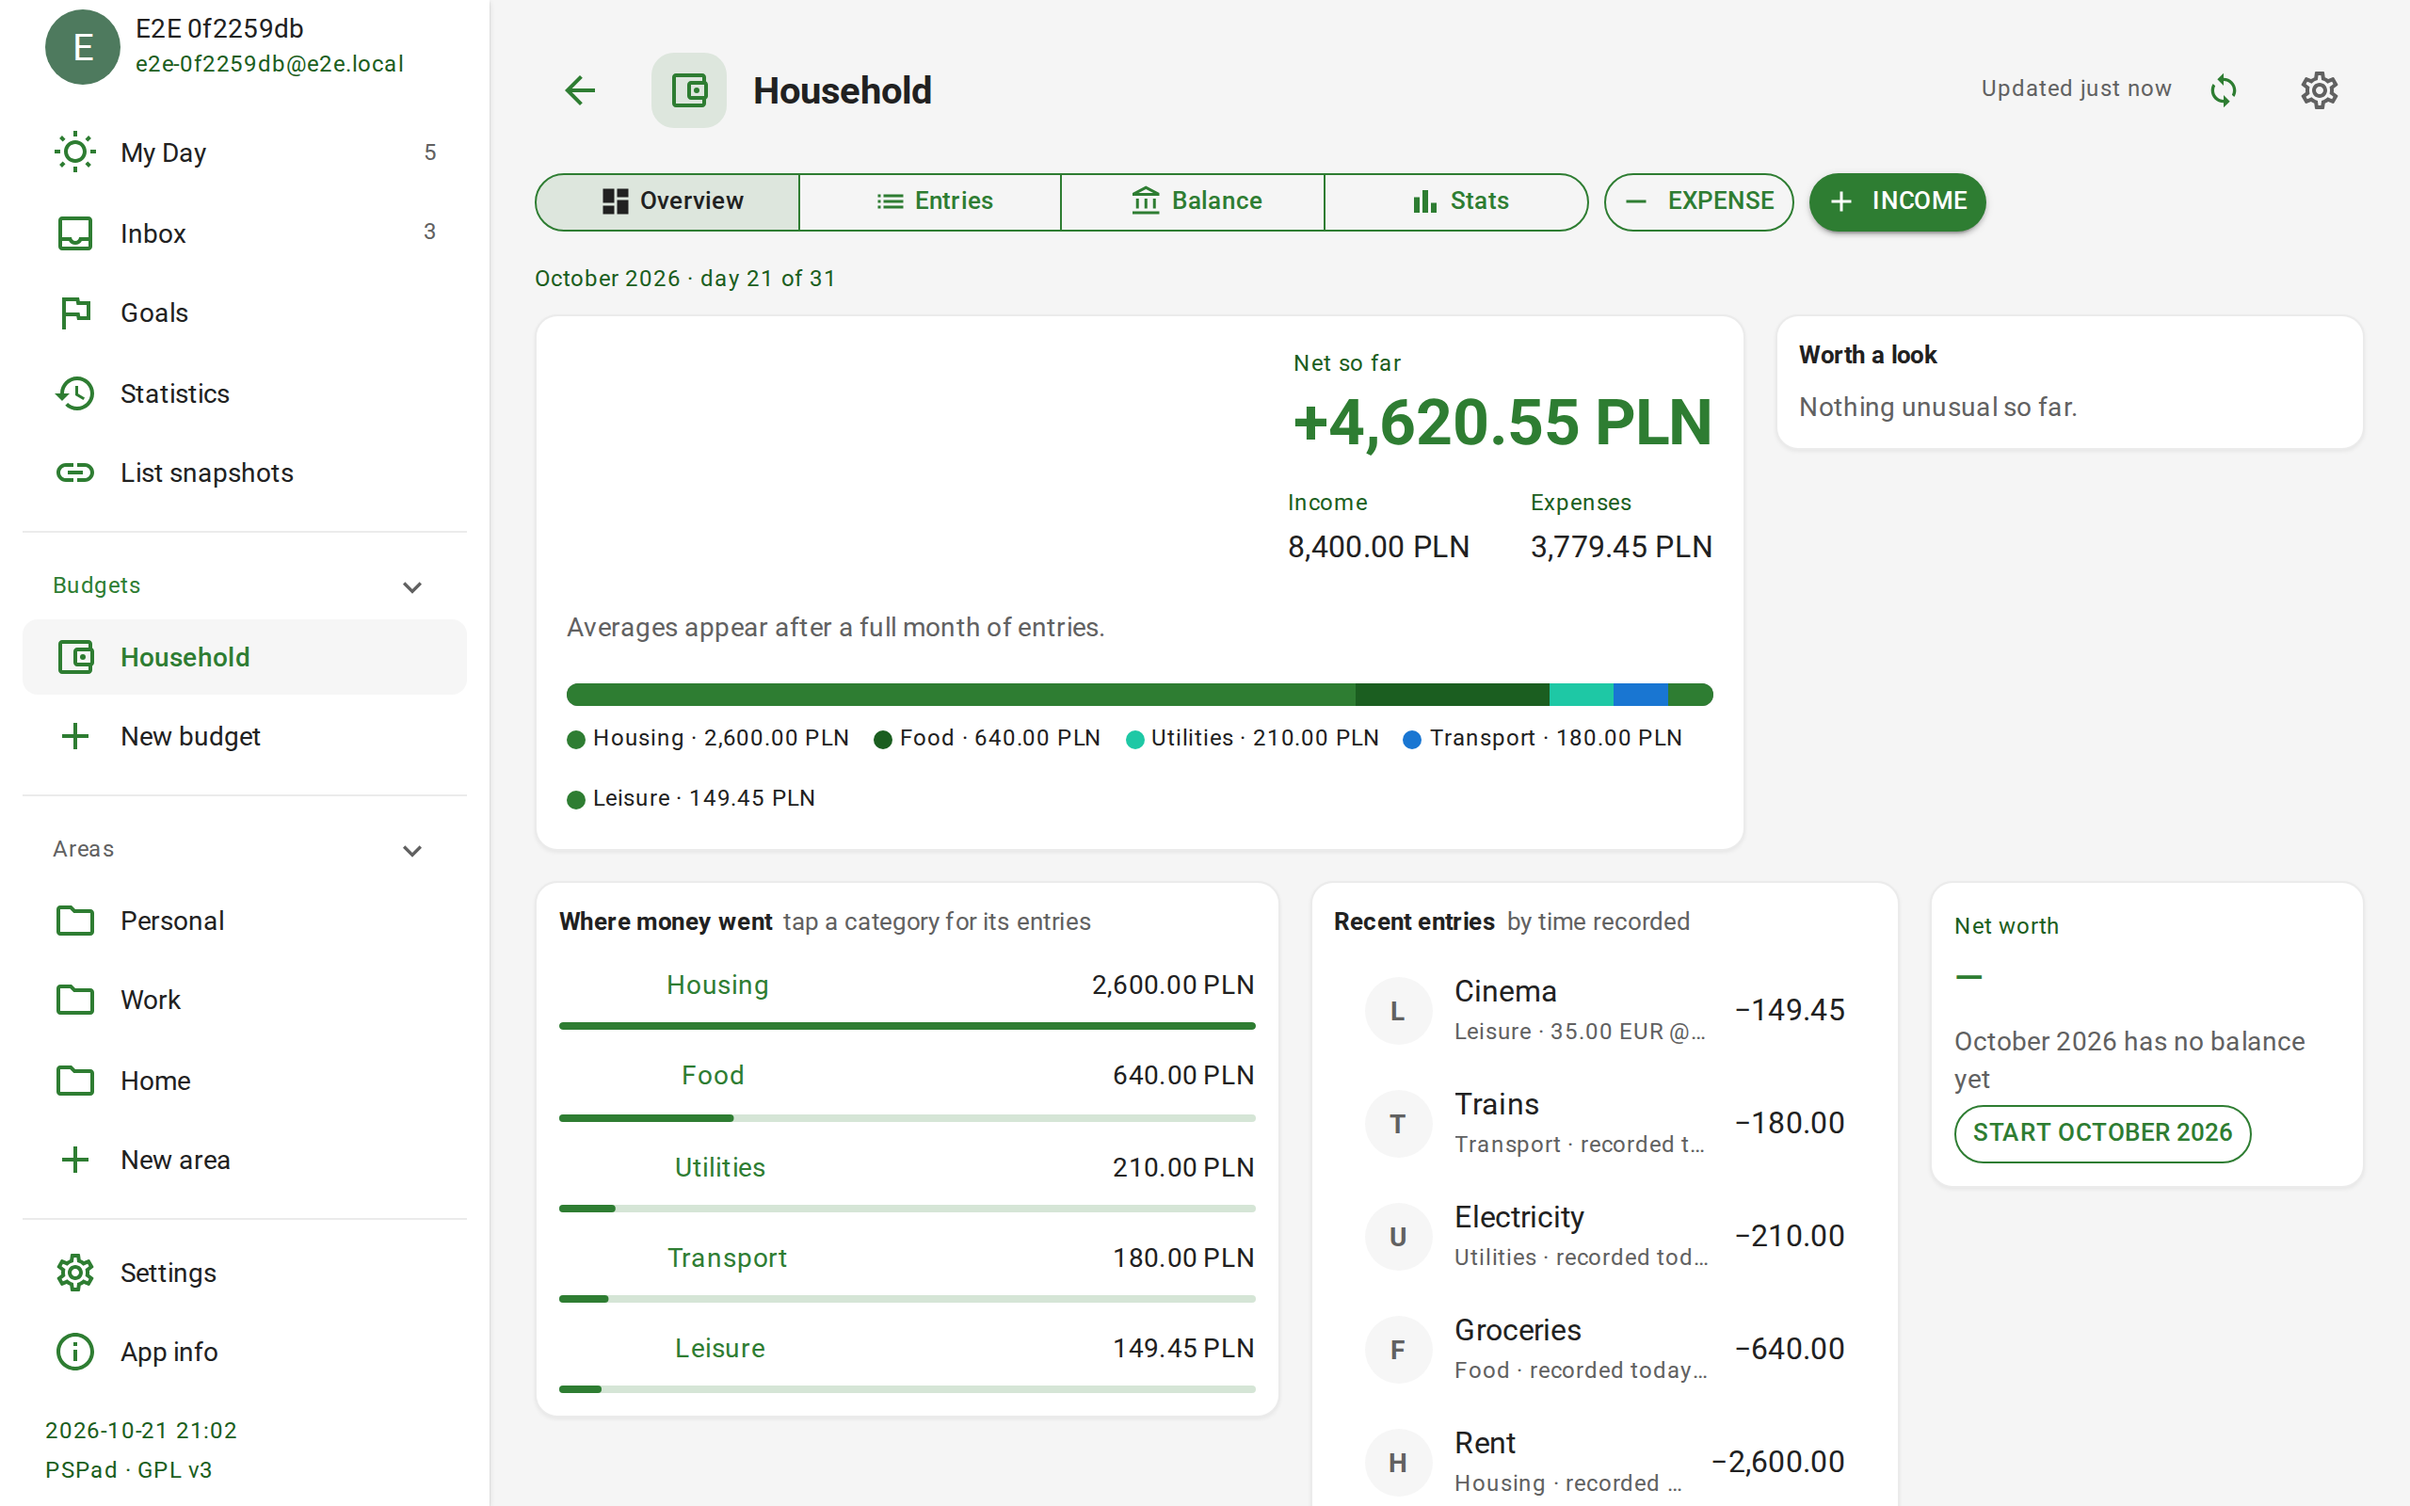
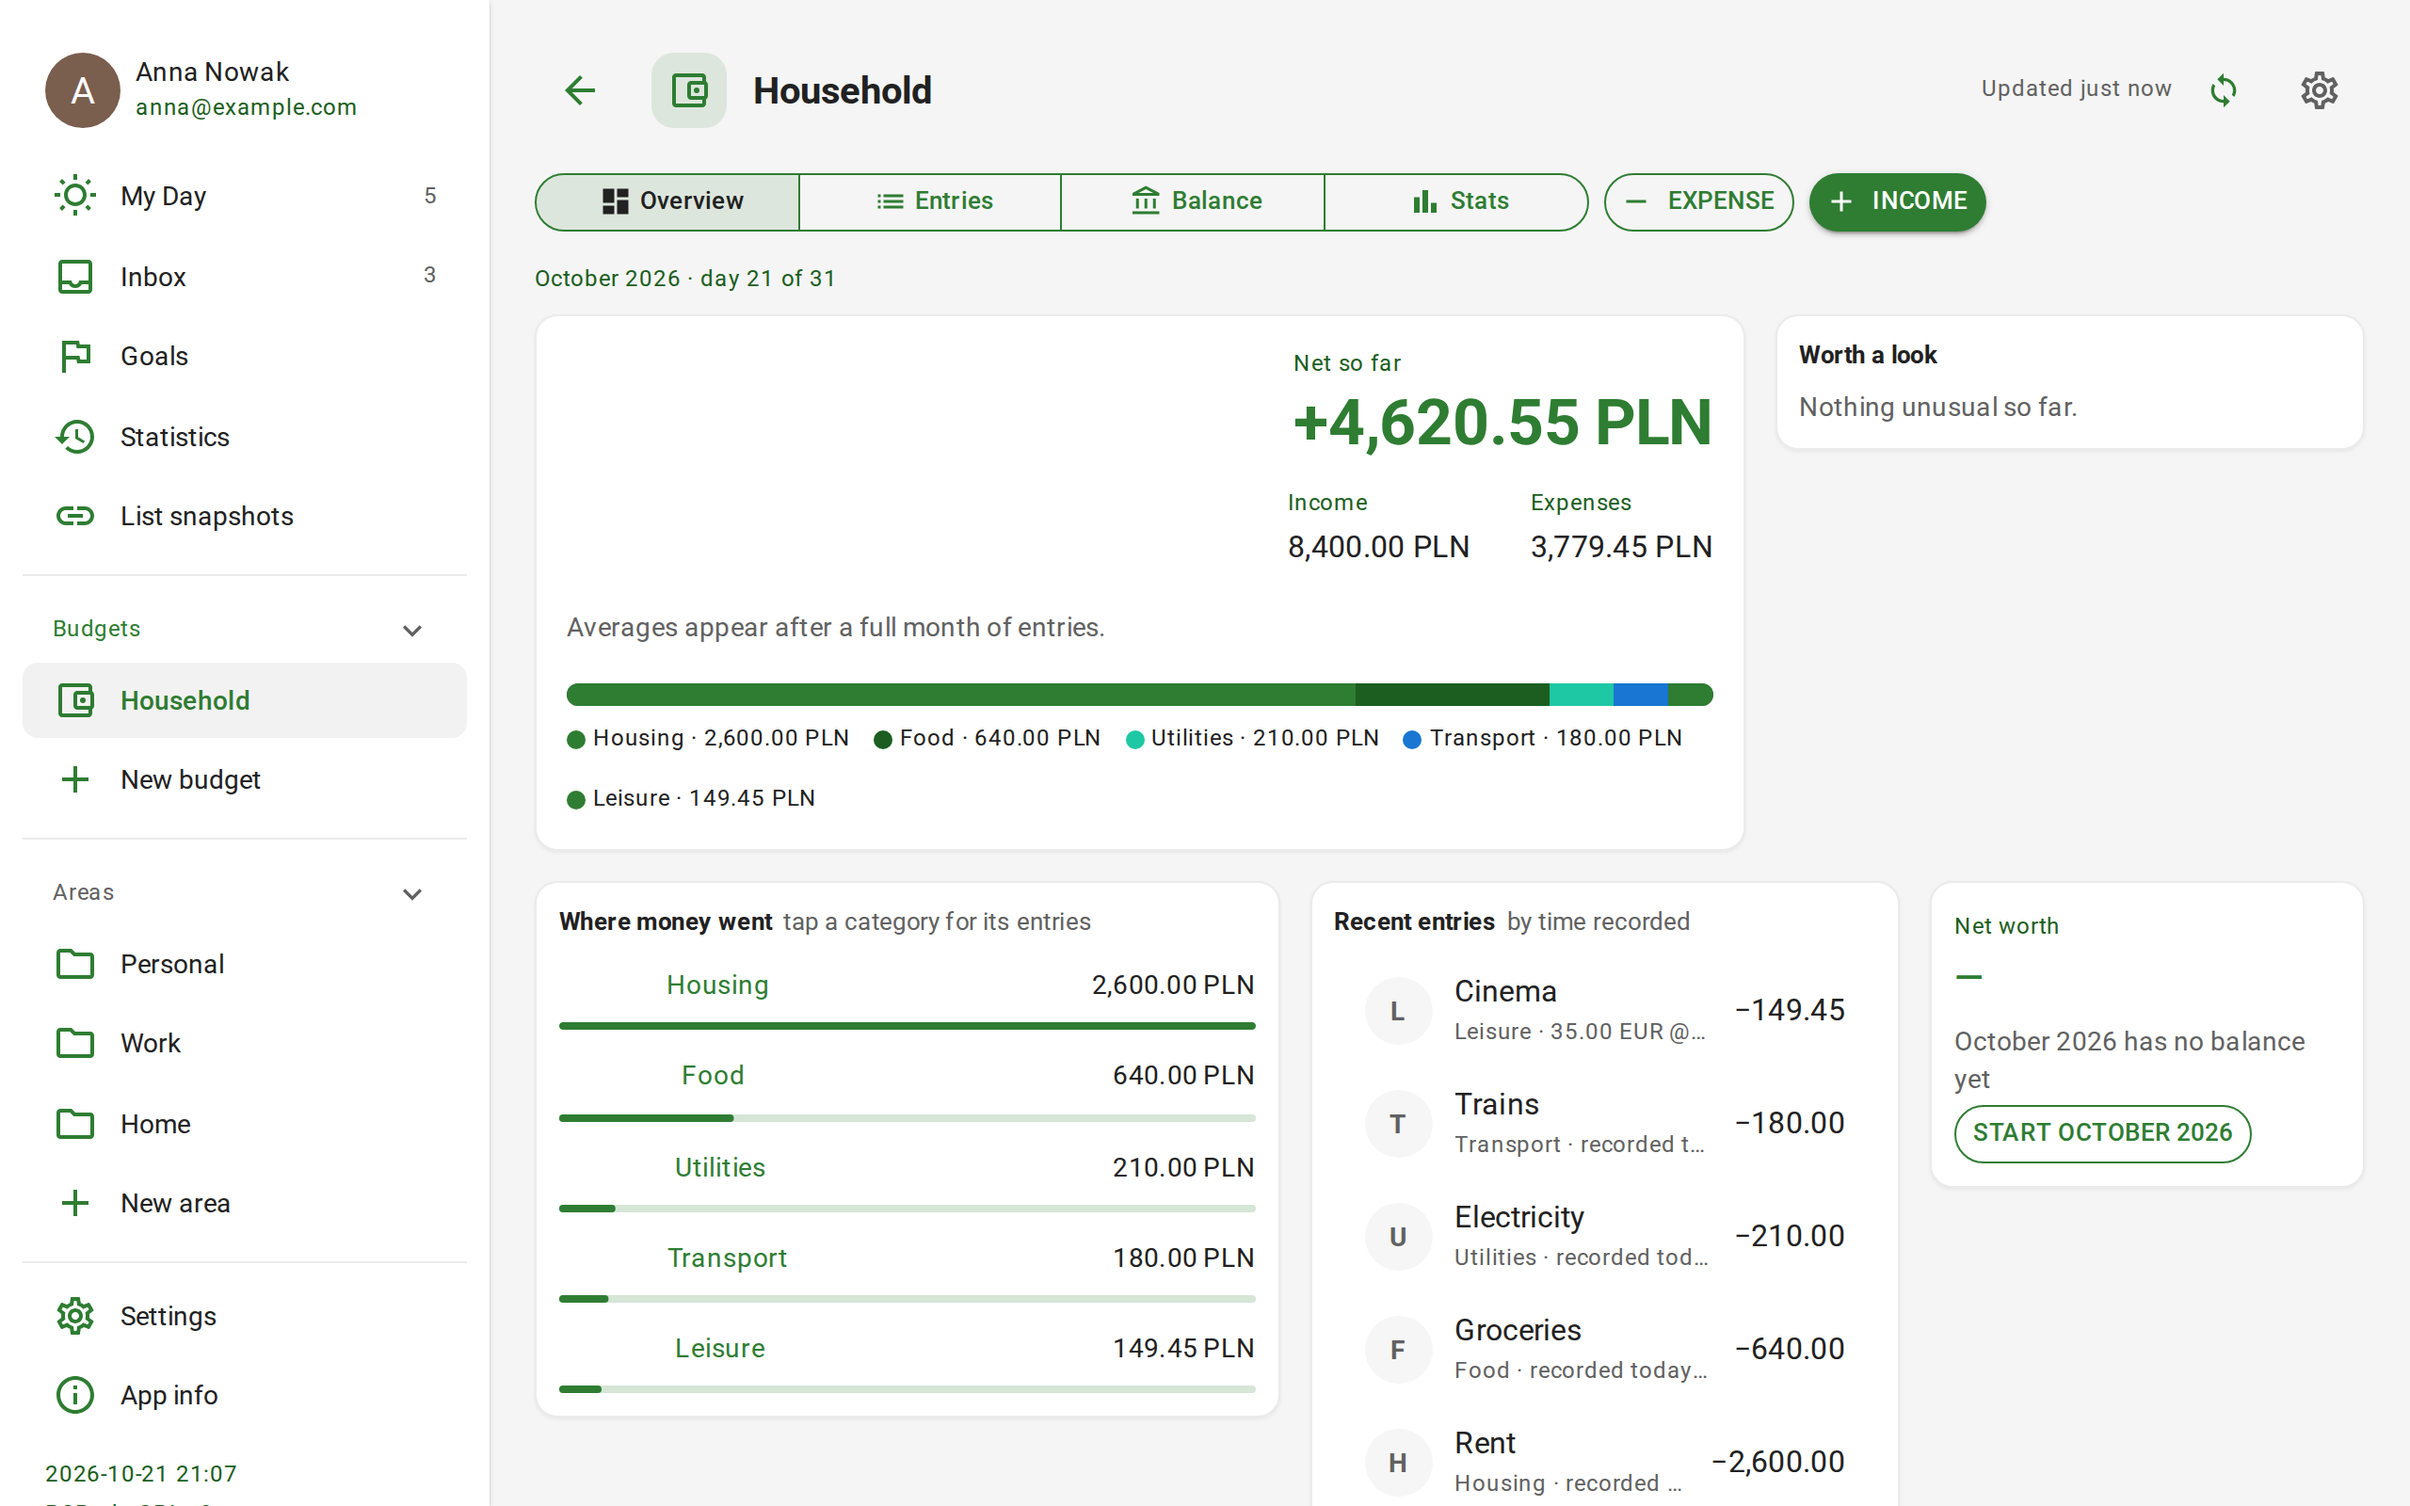
fix(e2e): screenshot account has a presentable name and email (#110)
Claude-Session: https://claude.ai/code/session_01JuNDjC2thPD8ko1UT1YSuQ

diff --git a/test/e2e/screenshots.spec.ts b/test/e2e/screenshots.spec.ts
@@ -1,8 +1,8 @@
-import { expect, Page } from '@playwright/test';
+import { expect, Page, test } from '@playwright/test';
 import { mkdirSync } from 'node:fs';
 import path from 'node:path';
 import { fileURLToPath } from 'node:url';
-import { test } from './fixtures/accounts';
+import { createAccount, deleteAccount } from './fixtures/keycloak';
 import { openArea } from './helpers/areas';
 import { addEntry, createBudget } from './helpers/budgets';
 import { addDays, utcToday } from './helpers/dates';
@@ -105,30 +105,35 @@ async function seed(page: Page) {
 
 test.describe.configure({ timeout: 600_000 });
 
-test('capture the screenshots the docs site shows', async ({ page, account }) => {
-  mkdirSync(out, { recursive: true });
-  await page.setViewportSize(desktop);
-  await signIn(page, account);
-  await seed(page);
-
-  for (const theme of ['Light', 'Dark'] as const) {
-    const name = theme.toLowerCase() as 'light' | 'dark';
-    await setTheme(page, theme);
-
-    await goToMyDay(page);
-    await shot(page, 'my-day', name, desktop);
-    await shot(page, 'my-day', name, phone);
-
-    await goToInbox(page);
-    await shot(page, 'inbox', name, phone);
-
+test('capture the screenshots the docs site shows', async ({ page }) => {
+  const account = await createAccount({ firstName: 'Anna', lastName: 'Nowak', email: 'anna@example.com' });
+  try {
+    mkdirSync(out, { recursive: true });
     await page.setViewportSize(desktop);
-    await openArea(page, 'Work');
-    await shot(page, 'area', name, desktop);
+    await signIn(page, account);
+    await seed(page);
 
-    await goTo(page, 'Budgets');
-    await page.getByRole('link', { name: 'Household' }).first().click();
-    await expect(page.getByRole('heading', { name: 'Household', exact: true })).toBeVisible();
-    await shot(page, 'budget', name, desktop);
+    for (const theme of ['Light', 'Dark'] as const) {
+      const name = theme.toLowerCase() as 'light' | 'dark';
+      await setTheme(page, theme);
+
+      await goToMyDay(page);
+      await shot(page, 'my-day', name, desktop);
+      await shot(page, 'my-day', name, phone);
+
+      await goToInbox(page);
+      await shot(page, 'inbox', name, phone);
+
+      await page.setViewportSize(desktop);
+      await openArea(page, 'Work');
+      await shot(page, 'area', name, desktop);
+
+      await goTo(page, 'Budgets');
+      await page.getByRole('link', { name: 'Household' }).first().click();
+      await expect(page.getByRole('heading', { name: 'Household', exact: true })).toBeVisible();
+      await shot(page, 'budget', name, desktop);
+    }
+  } finally {
+    await deleteAccount(account);
   }
 });

diff --git a/test/e2e/fixtures/keycloak.ts b/test/e2e/fixtures/keycloak.ts
@@ -29,10 +29,14 @@ async function adminToken(): Promise<string> {
   return ((await response.json()) as { access_token: string }).access_token;
 }
 
-export async function createAccount(): Promise<Account> {
+export type Profile = { firstName: string; lastName: string; email: string };
+
+export async function createAccount(profile?: Profile): Promise<Account> {
   const suffix = randomBytes(4).toString('hex');
   const username = `e2e-${suffix}`;
-  const email = `${username}@e2e.local`;
+  const email = profile?.email ?? `${username}@e2e.local`;
+  const firstName = profile?.firstName ?? 'E2E';
+  const lastName = profile?.lastName ?? suffix;
   const token = await adminToken();
   const response = await fetch(`${env.keycloakUrl}/admin/realms/${env.realm}/users`, {
     method: 'POST',
@@ -40,8 +44,8 @@ export async function createAccount(): Promise<Account> {
     body: JSON.stringify({
       username,
       email,
-      firstName: 'E2E',
-      lastName: suffix,
+      firstName,
+      lastName,
       enabled: true,
       emailVerified: true,
       credentials: [{ type: 'password', value: password, temporary: false }],
@@ -51,7 +55,7 @@ export async function createAccount(): Promise<Account> {
     throw new Error(`Keycloak create user: ${response.status} ${await response.text()}`);
   }
   const id = response.headers.get('location')!.split('/').pop()!;
-  return { id, username, password, email, displayName: `E2E ${suffix}`, suffix };
+  return { id, username, password, email, displayName: `${firstName} ${lastName}`, suffix };
 }
 
 export async function deleteAccount(account: Account): Promise<void> {
